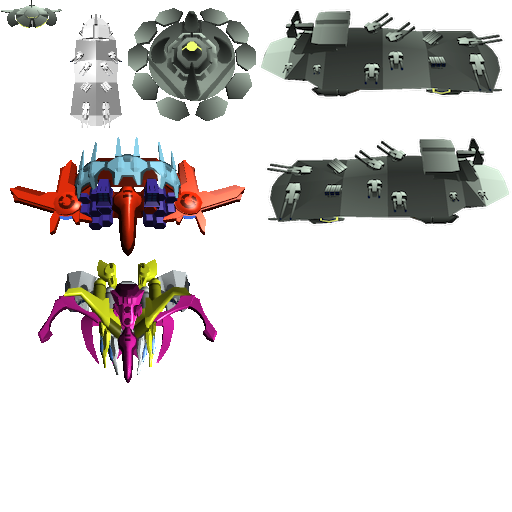
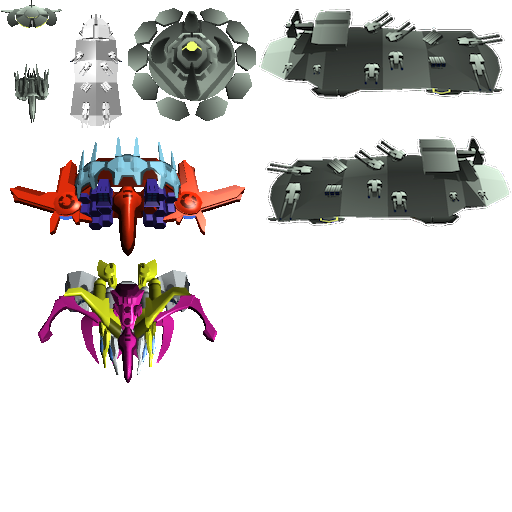
add nao graphic

diff --git a/src/enemy/EnemyHard.js b/src/enemy/EnemyHard.js
@@ -520,24 +520,21 @@ gls2.Enemy.nao = tm.createClass(
 
     init: function(gameScene, software) {
         this.superInit(gameScene, software, "midorikawa");
-        this.boundingWidthLeft = 0
-        this.boundingWidthRight = 32;
-        this.boundingHeightTop = 0;
-        this.boundingHeightBottom = 32;
+        this._sprite = _Sprite("tex_stage3", 64, 64).setFrameIndex(8);
     },
     update: function(app) {
         gls2.Enemy.prototype.update.call(this, app);
 
+/*
         if (this.x < this.player.x) {
             this.scaleX = -1;
         } else {
             this.scaleX = 1;
         }
+*/
     },
     draw: function(canvas) {
-        canvas.fillStyle = "yellow";
-        canvas.fillRect(-this.boundingWidthLeft, -this.boundingHeightTop,
-            this.boundingWidthLeft+this.boundingWidthRight, this.boundingHeightTop+this.boundingHeightBottom);
+        this._sprite.draw(canvas);
     },
 });
 
